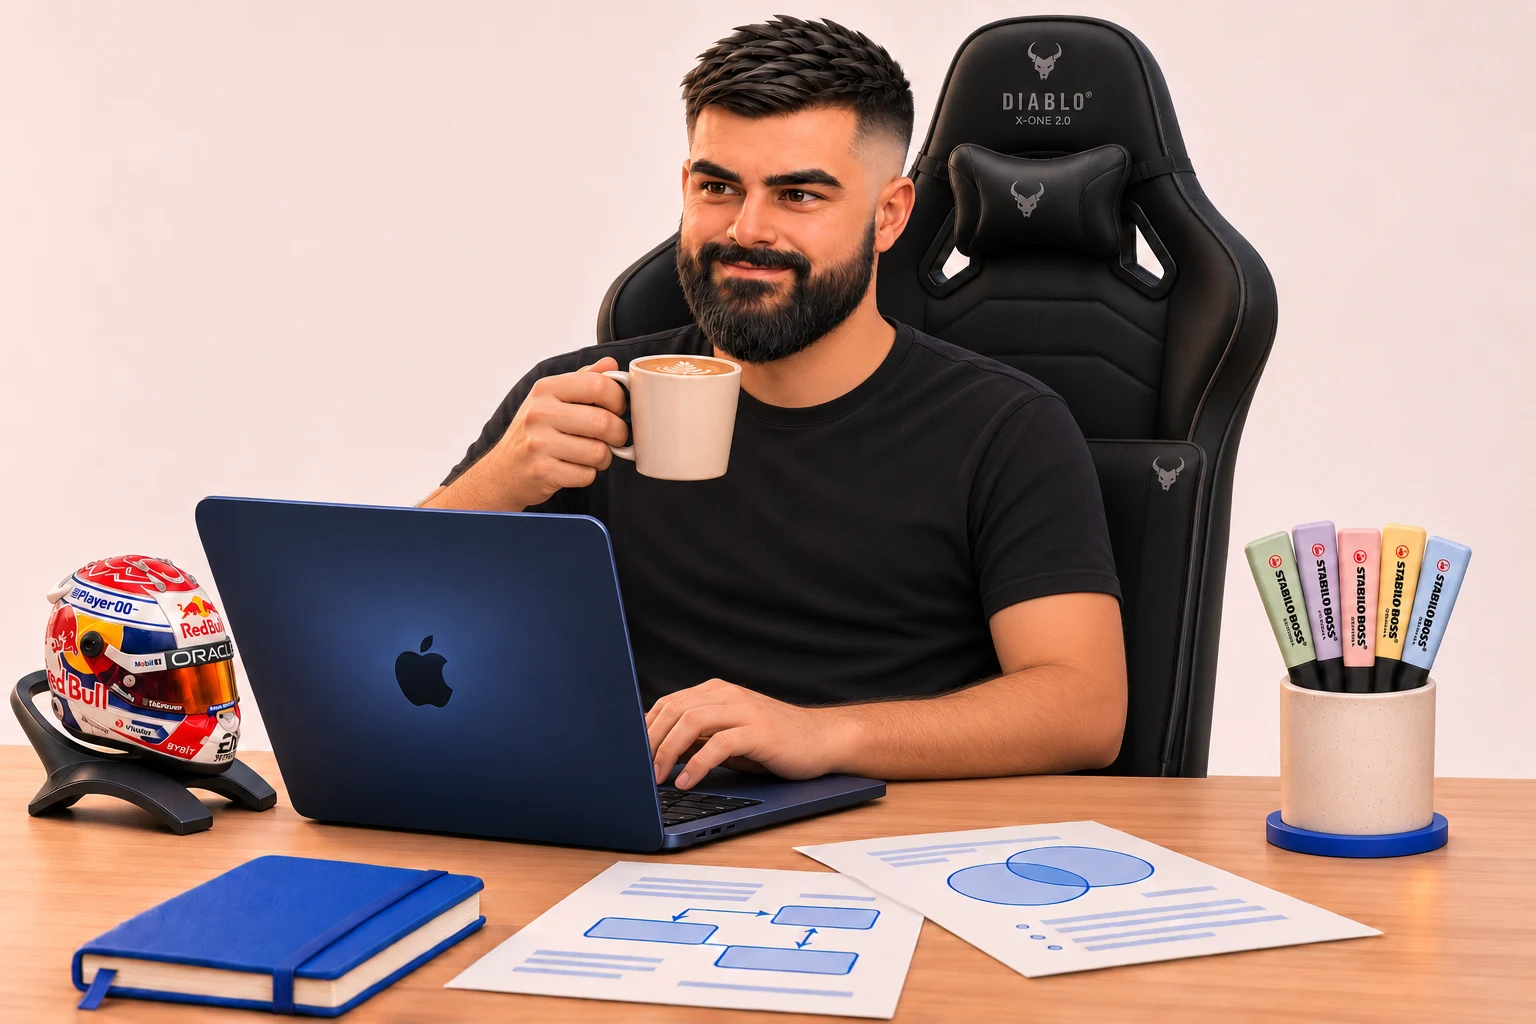
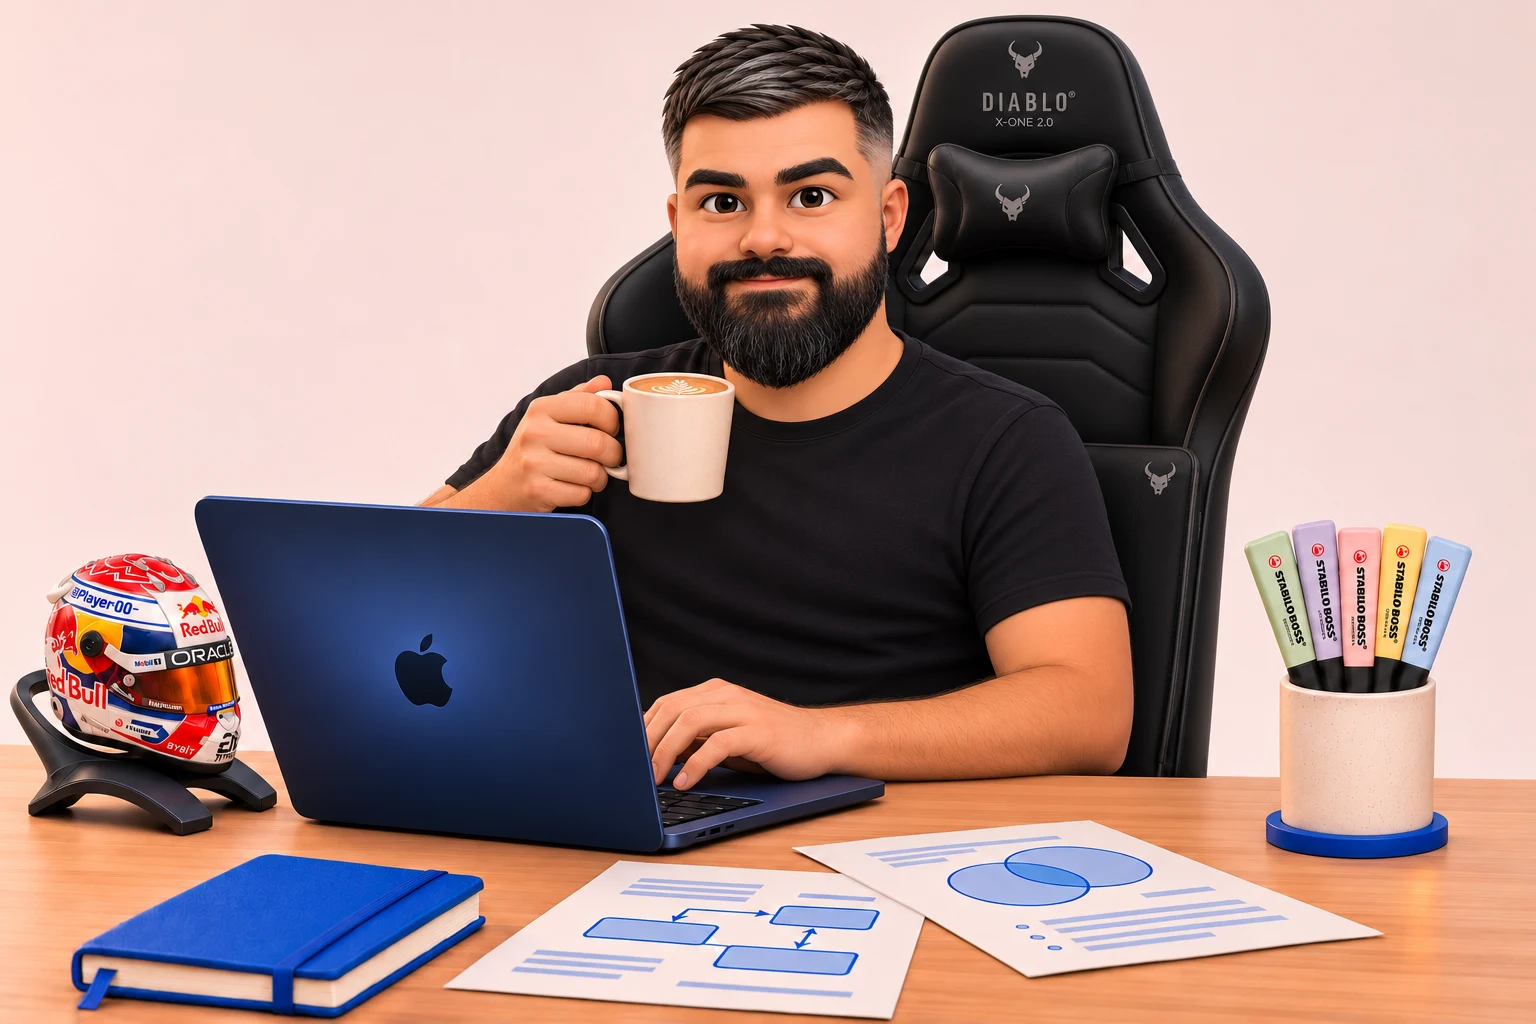
Match personal illustration face to supplied portrait reference

diff --git a/personal/index.html b/personal/index.html
@@ -10,7 +10,7 @@
 </head>
 <body>
 <main aria-label="Lukáš Javůrek">
-<img class="illustration" src="/personal/hero.webp" alt="Lukáš Javůrek u inkoustově modrého MacBooku s kávou, modelem helmy Maxe Verstappena a pastelovými zvýrazňovači." width="1536" height="1024" fetchpriority="high">
+<img class="illustration" src="/personal/hero.webp?v=8c3194d9960d" alt="Lukáš Javůrek u inkoustově modrého MacBooku s kávou, modelem helmy Maxe Verstappena a pastelovými zvýrazňovači." width="1536" height="1024" fetchpriority="high">
 <a class="school-link" href="/kapli/">Rozcestník pro učitele ZŠ Kaplického</a>
 </main>
 </body></html>
